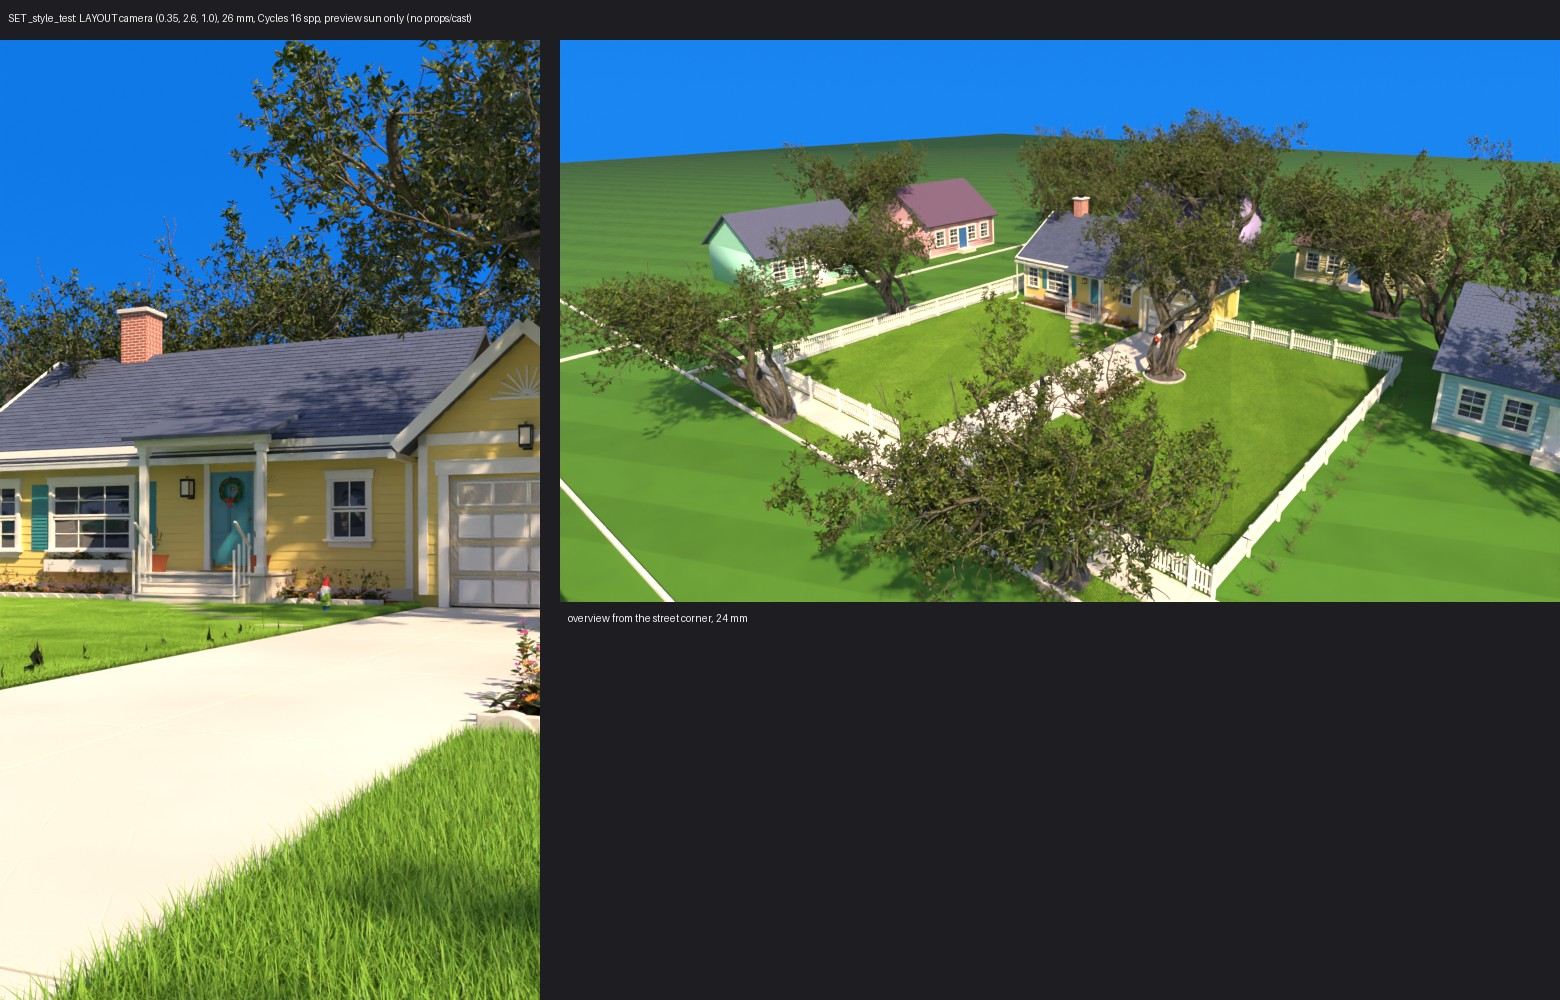
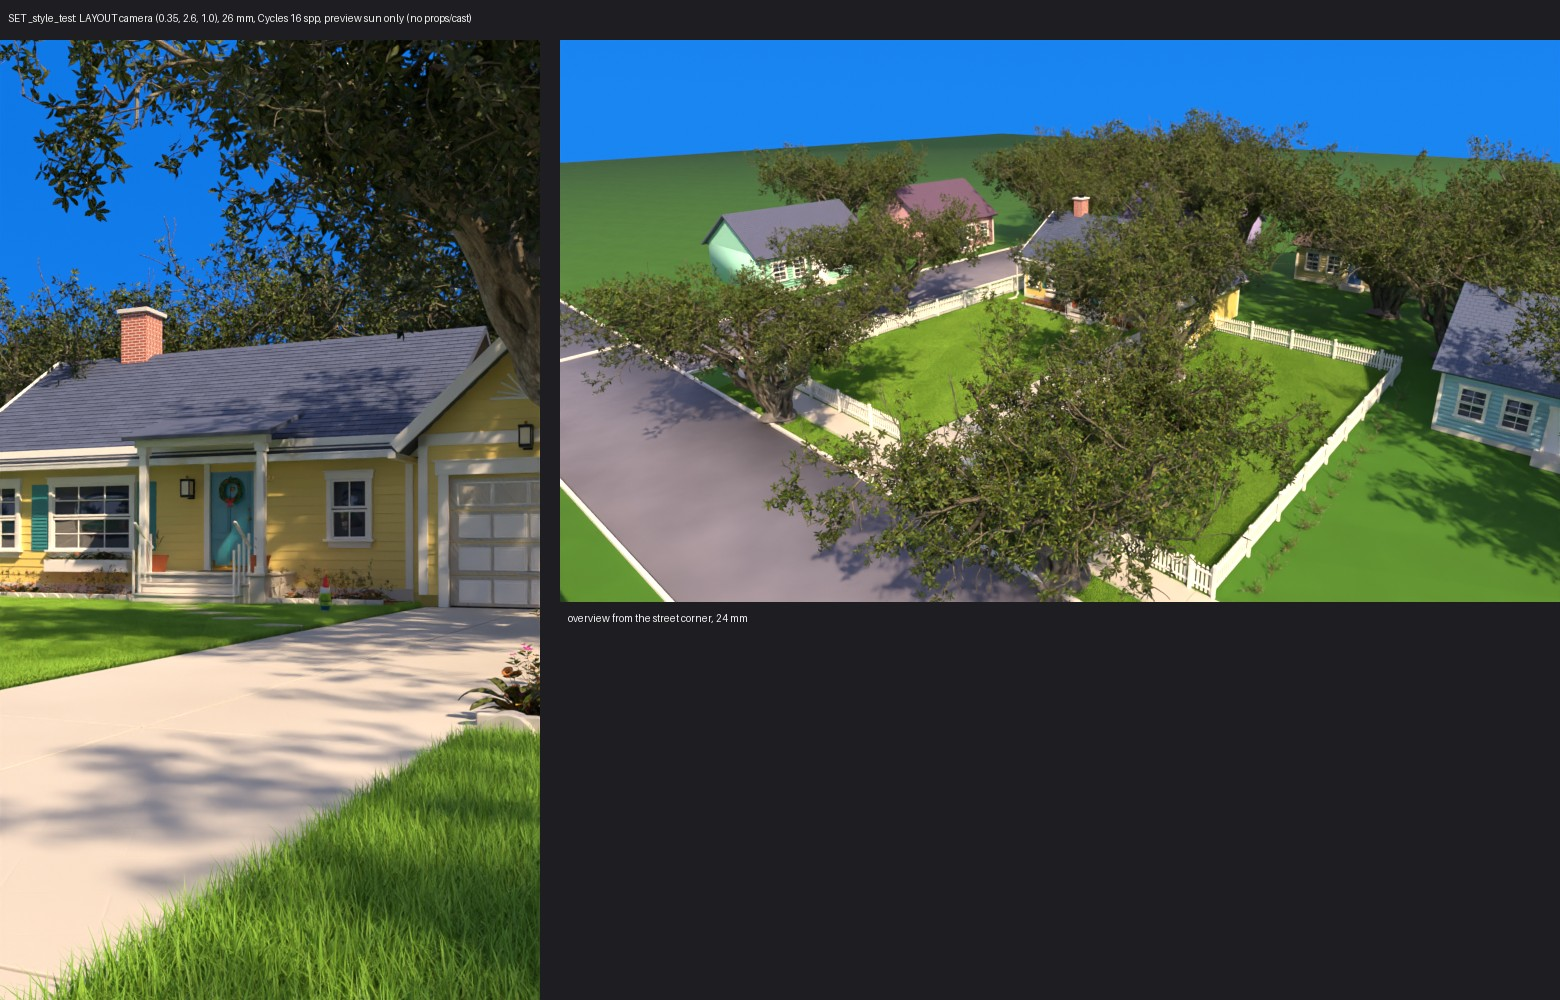
Style test: house, yard and tree set (build script, sheet)
Claude-Session: https://claude.ai/code/session_01DrjR3Ltb34YxYG9MboPX6s

diff --git a/episodes/_style_test/set/STATE.md b/episodes/_style_test/set/STATE.md
@@ -1,0 +1,38 @@
+# set/ STATE (3d-designer, round 1, 2026-11-21)
+Rebuild: `blender -b --factory-startup --python set/build_set.py -- build set` (36 s) -> set.blend (75 MB, compressed) + set_meta.json.
+Proof: `bash set/run_sheet.sh` (key 58 s + overview 46 s, Cycles CPU 16 spp, 3 threads) -> set/sheet/key.png, overview.png, set/SET_SHEET.jpg.
+Downloads: `python3 set/fetch_set.py episodes/_style_test/assets` (all Poly Haven CC0, list in ASSETS.md).
+
+## Frame
+Built in a LOCAL frame (driveway along local +Y, garage door front at local y 9, metres, Z up), parented to the empty `set_root`, which
+places it on LAYOUT.json: world = T(garage pos) Rz(-26 deg) T(0,-9). Checked: mark_house/garage/tree/drive/car_spot land on the
+LAYOUT points to the mm (set_meta.json "anchors_world"). The LAYOUT camera is read into the local frame for the near grass and the birdhouse.
+No lights or camera are saved in set.blend; the sheet adds a preview sun/sky from rick_light.json "day" + the LAYOUT sun, in memory only.
+
+## Built (collections under SET_style_test; the outline objects are also in `Line`)
+- House 10 x 8 m, butter-yellow REAL clapboard (each board a tilted strip, true shadow line), white trims with bevels, 4 double-hung
+  windows (casing 9 cm proud, sill, apron, drip cap, muntins, glass set back, sheer curtains), teal louvred shutters, window box with
+  flowers, teal 6-panel gloss door with brass knob/deadbolt/kick plate/knocker, evergreen wreath with berries and bow, coach lamp,
+  brass "27", porch (3 concrete steps with nosings, 2 posts, shed roof, handrails), coir mat with rubber rim, 2 terracotta pots,
+  shingle roof (real rows + tab seams), fascia/rake boards, K gutters with hangers, downpipe with elbows/kick-out/splash block, brick chimney.
+- Garage 3.6 x 6 m, front gable with sunburst vent, 4-section door (12 raised panels + 4 windows), handle, seal, lamp, "27"; link wall to the house.
+- Ground: drive slabs 3 m with saw joints (1.6 cm) and a few procedural hairline cracks, public walk + side-street walk, kerbs, two
+  asphalt streets, storm drain, lawn soil with soft mowing stripes.
+- Yard: hair lawn 0.97 M strands (8.5 cm, denser near the lens), 70,000 modelled near blades in the lens's ground (7-21 cm, bent,
+  translucent), 3 mulch beds with scalloped edging + tree ring, Poly Haven flowers (gazania, ursinia, periwinkle) and shrubs,
+  6 flagstone stepping stones, picket fence (pointed pickets, posts with caps, 2 rails), gnome, sprinkler, red birdhouse on the trunk.
+- Tree: Poly Haven island_tree_02 at the LAYOUT point, 9.5 m, two instances per tree for a full crown; 13 far trees.
+- Far: 6 neighbour houses in mint/pink/aqua/lilac/cream/peach (real boards on the street face, windows, door, shingle roof),
+  corner street sign LINDEN ST / MAPLE AVE, hedge.
+
+## Numbers
+Triangles: 2.06 M unique; 31.9 M rendered with instances (28 tree instances x 1.07 M); 410 objects; hair 973,539 strands.
+Render memory/time fine on the 4-CPU box (58 s key at 540x960 16 spp).
+
+## Weak / open
+- Tree crown reads olive and dark from the low lens; lit tops are not yet the yellow-green Rick has (light may fix part; else leaf colour).
+- Drive control joints and cracks are faint at 540 px; the near drive is plain. Concrete albedo lowered once (#c8c3b9) to stop clipping.
+- Not done: close-up material stills, detail_density.py beside the storyboard/Rick, the crew check file, look/<place>_MATERIALS.md,
+  the 360 px phone check. No storyboard exists for this test.
+- Mailbox (props) LAYOUT point lands ON the drive in the 3.4 m drive (local x .66, y -6.3): lead to move it or narrow the drive.
+- Hose reel and bike points are on the right lawn; the drive-edge flower bed (local x 1.75-2.45, y -2.5..2.8) avoids them.

diff --git a/episodes/_style_test/set/ASSETS.md b/episodes/_style_test/set/ASSETS.md
@@ -7,7 +7,7 @@ FINAL CREDIT LINE (YOUTUBE.md): "Tree, plants, garden gnome and sprinkler models
 
 | id | page | got | tris | used as | changed for this set |
 |---|---|---|---|---|---|
-| island_tree_02 | polyhaven.com/a/island_tree_02 | local copy (yft) | 1,072,212 | hero tree (9.5 m) + 13 far trees (same mesh, instanced) | leaves: saturation 1.4, value 1.15, yellow-green multiply, dark-underside gradient (object Z), sheen 0; branches greened 25 % |
+| island_tree_02 | polyhaven.com/a/island_tree_02 | local copy (yft) | 1,072,212 | hero tree (9.5 m) + 13 far trees; every tree = 2 instances of the same mesh (2nd turned 137 deg, 0.93 size) for a full crown | leaves: saturation 1.4, value 1.15, yellow-green multiply, dark-underside gradient (object Z), sheen 0; branches greened 25 % |
 | garden_gnome | polyhaven.com/a/garden_gnome | downloaded | 28,858 | the gnome by the stepping stones | saturation 1.35, value 1.1 |
 | garden_sprinkler_01 | polyhaven.com/a/garden_sprinkler_01 | downloaded | 8,192 | oscillating sprinkler on the right lawn | scale 1.2, saturation 1.2 |
 | flower_gazania | polyhaven.com/a/flower_gazania | downloaded | 14,340 (6 plants) | bed flowers, window-box flowers | scale 1.3-2.0, saturation 1.3 |
@@ -15,7 +15,7 @@ FINAL CREDIT LINE (YOUTUBE.md): "Tree, plants, garden gnome and sprinkler models
 | periwinkle_plant | polyhaven.com/a/periwinkle_plant | downloaded | 34,350 (6) | bed flowers, tree-ring flowers | scale 1.2-1.6, saturation 1.3 |
 | shrub_02 | polyhaven.com/a/shrub_02 | local copy (yft) | 27,254 (4) | foundation shrubs, hedge behind the right fence | scale .42-.7, saturation 1.25, green multiply 15 % |
 | shrub_03 | polyhaven.com/a/shrub_03 | local copy (yft) | 8,287 (4) | plants in the two porch pots | scale 1.3-1.5 |
-| grass_bermuda_01 | polyhaven.com/a/grass_bermuda_01 | local copy (yft) | 941 (21 clumps) | grass tufts along both drive edges | scale 1.6-2.2, saturation 1.3 |
+| grass_bermuda_01 | polyhaven.com/a/grass_bermuda_01 | local copy (yft) | 941 (21 clumps) | NOT USED (read as dark spikes at 1.6-2.2x; removed round 1) | - |
 | concrete_pavement (texture) | polyhaven.com/a/concrete_pavement | downloaded | - | NORMAL map only (strength .25) on drive, walks, steps, kerbs; colour stays ours | - |
 
 Built by code in `set/build_set.py` (no clean free asset in the house style, or the layout needed exact sizes): house, garage, porch,
